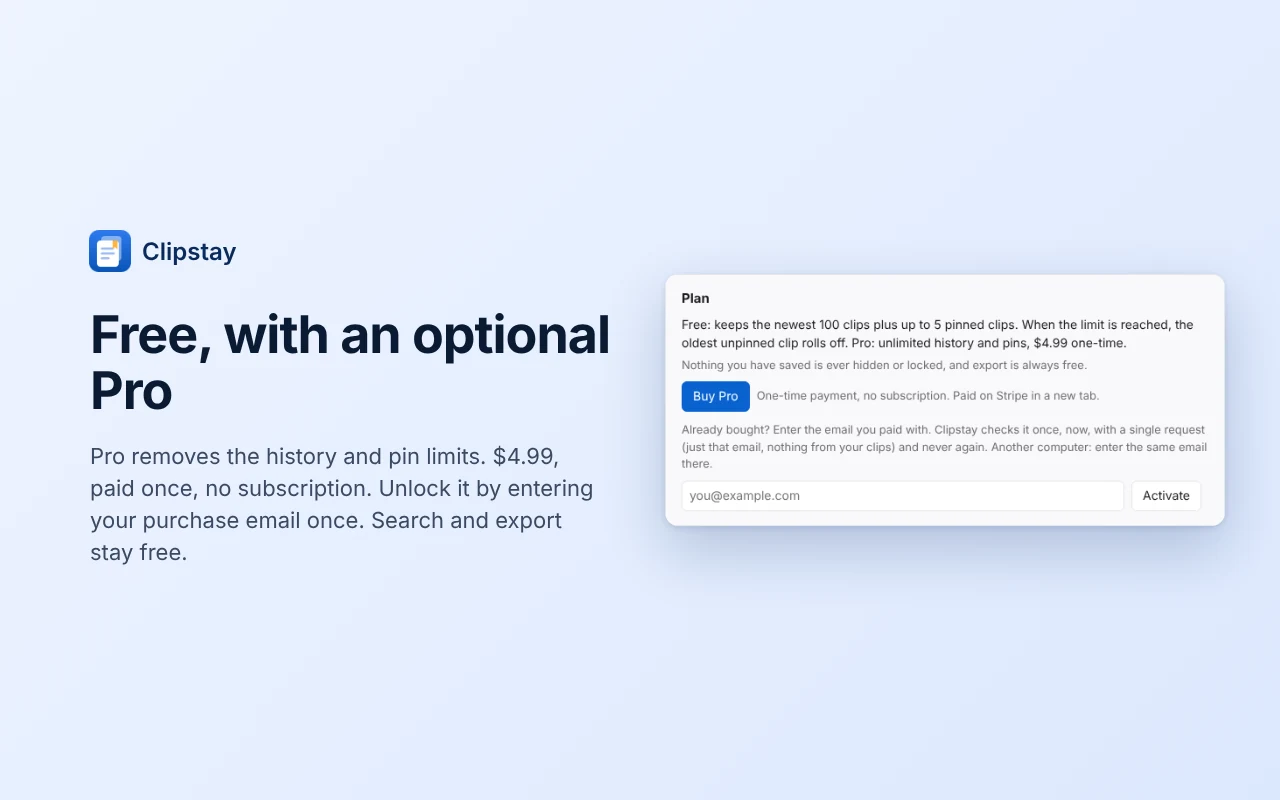
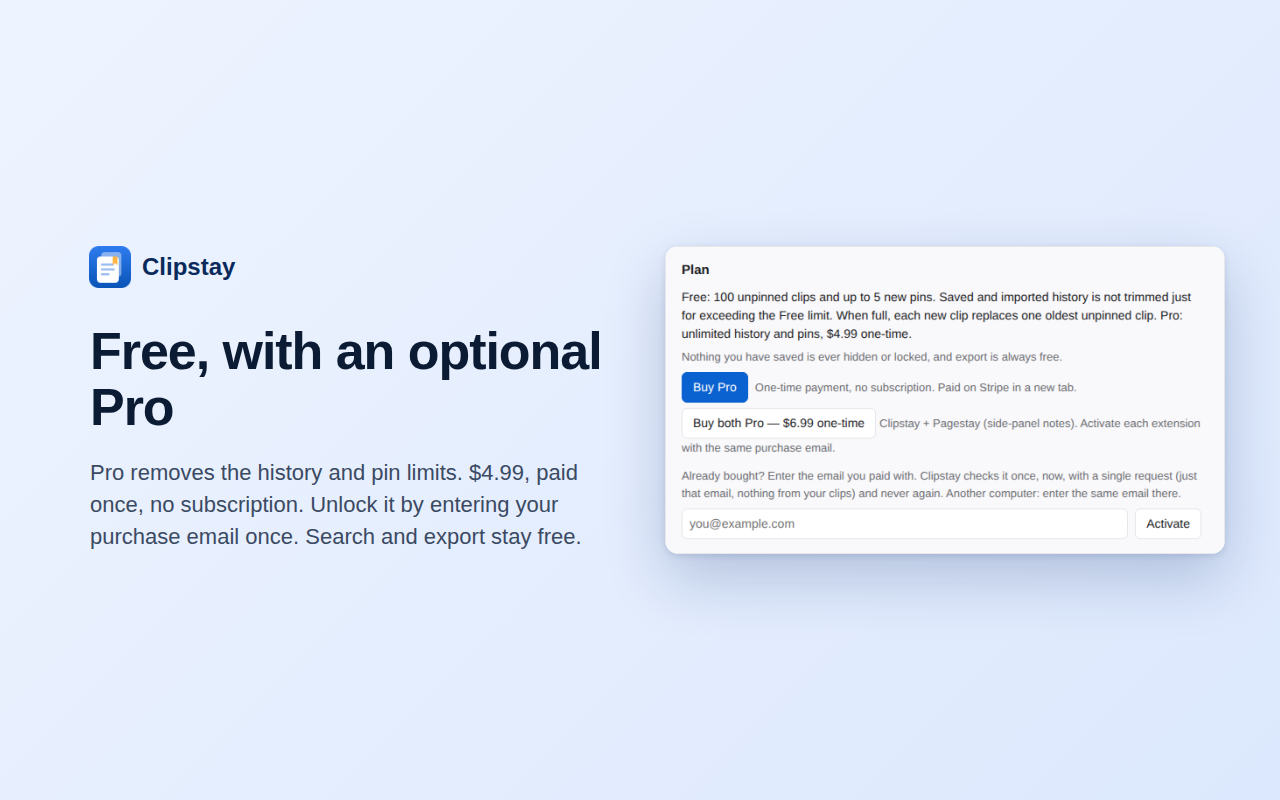
Replace stale Clipstay Plan image with verified native capture

Changed region(s): [[0.5, 0.3125, 0.9688, 0.7188], [0.0625, 0.5625, 0.4688, 0.7188], [0.0625, 0.2812, 0.5, 0.5312]]

diff --git a/docs/roadmaps/site-bugfix-preparation-2026-11.md b/docs/roadmaps/site-bugfix-preparation-2026-11.md
@@ -1,6 +1,6 @@
 # Site corrections for Clipstay 1.1.4 and Pagestay 1.0.2
 
-Prepared on 2026-11-04 UTC. This is preparation, not publication. Current site release baseline for the #73/#61 follow-up is `efdbdf76aa3d1aafa8ebdfb9248de3dac765cd31`; #55 images and #53/#54 copy/privacy are integrated. Current retention/origin/inventory work is tracked in [the agreed-behavior follow-up](clipstay-1.1.4-retention-and-privacy.md). Earlier integration snapshots below remain historical evidence.
+Prepared on 2026-11-04 UTC. This is preparation, not publication. Current site release baseline is `2a14e40816abcfa2f409e257b3f20fd00650b733`; #55 images, #53/#54 copy/privacy and #56/#46 agreed retention/inventory/origin changes are integrated after independent review and current checks. The separate current native Plan-image draft still needs its own site CI/review and integration. Current retention/origin/inventory work is tracked in [the agreed-behavior follow-up](clipstay-1.1.4-retention-and-privacy.md). Earlier integration snapshots below remain historical evidence.
 
 ## Baseline and delivery boundary
 
@@ -43,7 +43,7 @@ All listed Issues stay open until their delivery criteria have been verified on 
 - No existing failing test was weakened, skipped or replaced. No workflows changed. Local URL-resolution evidence is synthetic generated-HTML validation, not a fresh browser or live production retest.
 - Existing CI is used unchanged and economically; final feature heads and check links are recorded in the draft PRs.
[1 lines of base64/hex data omitted]
-- Initial legal corrections were prepared in [draft PR #46](https://github.com/viktorermolov/ermolov.dev/pull/46), head `be0726f129f95d0cada48f07ed32d3418c6f5bc5`; [Check site #170](https://github.com/viktorermolov/ermolov.dev/actions/runs/41747880990) passed. Both privacy edit dates are November 4. The approved network sentence appears exactly once per policy; background and 35-day checkout/URL text remain intact. Refund headings now agree. All prices, bundle/upgrade bullets and refund-request terms were checked against master; the entire Clipstay refund file was byte-identical at that initial checkpoint. The current #73 decision supersedes that unchanged-refund scope; PR46 is being refreshed against the integrated privacy copy and current inventory/origin facts.
+- Initial legal corrections were prepared in [draft PR #46](https://github.com/viktorermolov/ermolov.dev/pull/46), head `be0726f129f95d0cada48f07ed32d3418c6f5bc5`; [Check site #170](https://github.com/viktorermolov/ermolov.dev/actions/runs/41747880990) passed. Both privacy edit dates are November 4. The approved network sentence appears exactly once per policy; background and 35-day checkout/URL text remain intact. Refund headings now agree. All prices, bundle/upgrade bullets and refund-request terms were checked against master; the entire Clipstay refund file was byte-identical at that initial checkpoint. The current #73 decision supersedes that unchanged-refund scope; PR46 was subsequently refreshed against the integrated privacy copy and current inventory/origin facts, reviewed and integrated as recorded in the follow-up.
 - Mechanics and the initial roadmap were integrated through [PR #44](https://github.com/viktorermolov/ermolov.dev/pull/44). Its reviewed final head `7521140d55c2f9e41812799c0768ad46d4dd8914` passed [Check site #171](https://github.com/viktorermolov/ermolov.dev/actions/runs/41748007143). Its initial code head `1c074822668fa7cccf3d6c268a582963590b1fcc` had also passed [Check site #168](https://github.com/viktorermolov/ermolov.dev/actions/runs/41747460750).
 - The three proposed patches were applied to a detached temporary worktree for combined validation, without merging or committing them to any integration/release branch. Pinned Hugo production build, the complete site checker including the new 404 regression, JS syntax and whitespace checks all passed together. This does not replace CI on any future integrated PR or final master SHA.
 
@@ -54,22 +54,22 @@ All listed Issues stay open until their delivery criteria have been verified on 
 - #45 was then marked ready and merged normally as `2d83224b0a5413d1e44bbf7c76e7e8799582cbe4`. Its parents are the #44 merge and reviewed #45 head. Merge calls pinned each expected head SHA.
 - The actual release head `2d83224b0a5413d1e44bbf7c76e7e8799582cbe4` passed pinned Hugo 0.166.0 production build, full site checker (8 content pages, 2 products, including nested 404 checks), JS syntax and whitespace checks after fetching the resulting branch. This is local generated-artifact evidence, not production or fresh browser evidence.
 - Existing Actions trigger on PRs and master pushes, not release-branch pushes. The separate roadmap-status PR uses that existing pipeline to check the integrated tree plus this documentation update; it is not an exact-release-head push run and does not replace final canonical master CI. Green unchanged feature jobs were not rerun. No workflows or settings were changed.
-- #46 remains open **draft** and is being refreshed from initial head `be0726f129f95d0cada48f07ed32d3418c6f5bc5` against the current site release. Its old review covered the old scope only. Retention behavior is now decided by Clipstay #73; the updated legal/inventory/origin diff needs current CI and independent review. No legal delivery or publication is implied.
+- #46 was refreshed from initial head `be0726f129f95d0cada48f07ed32d3418c6f5bc5`, preserving unique earlier work. Fresh independent review accepted the combined #56/#46 tree; after #56 changed the base, a normal merge updated #46 and [CI 41897993429](https://github.com/viktorermolov/ermolov.dev/actions/runs/41897993429) passed on the current result. #46 merged as `2a14e40816abcfa2f409e257b3f20fd00650b733`, tree `0090ee6b8aae0cfdf6eb44cb3eac4642db5f0ff0`. Actual PR merge result and final release passed local full checks. This is release integration, not public delivery or publication.
 - Master remains `fba7e7b3b8f1468a52b972ce09211715ea6fd926`. No master merge, deployment, release/tag/store publication or issue closure took place. The public site still has none of these prepared corrections.
 
 ## Unresolved decisions and dependencies
 
-- **Clipstay #73 decision resolved:** prepared 1.1.4 retains existing/imported history and pins on passive transitions/import/Undo rather than bulk-trimming to 100. Each genuinely new Free capture at full history can replace one oldest unpinned clip; earlier capture-triggered work can finish later. No remote Pro revocation is added. Product and refund copy must say this, not promise absolute non-deletion. Local recopy timestamps, 24-hour-eligible deletion markers and retention/replacement metadata also need source-matched privacy inventory; no user-facing artificial clock example is added.
-- **Pagestay image handoff completed for preparation:** reviewed native outputs are integrated in site #55 with source-to-output provenance; no Store publication is claimed. New prepared 1.0.2 origin metadata from product #61 is being disclosed in PR46: protocol/port for note-link navigation, preserved in JSON, with unchanged hostname matching and no automatic legacy backfill.
+- **Clipstay #73 decision resolved:** prepared 1.1.4 retains existing/imported history and pins on passive transitions/import/Undo rather than bulk-trimming to 100. Each genuinely new Free capture at full history can replace one oldest unpinned clip; earlier capture-triggered work can finish later. No remote Pro revocation is added. Integrated product/refund copy now says this without promising absolute non-deletion. Local recopy timestamps, 24-hour-eligible deletion markers and retention/replacement metadata have source-matched privacy inventory through #46; no user-facing artificial clock example is added.
+- **Pagestay image handoff completed for preparation:** reviewed native outputs are integrated in site #55 with source-to-output provenance; no Store publication is claimed. New prepared 1.0.2 origin metadata from product #61 is disclosed through integrated PR46: protocol/port for note-link navigation, preserved in JSON, with unchanged hostname matching and no automatic legacy backfill.
 - A production Stripe Dashboard inspection is outside this task. Disclosure uses existing agreed Pagestay examples and source-verified Worker facts; it does not assert extra personal fields are stored in KV.
 
 ## Remaining release steps
 
-Follow-up after #51: the reviewed roadmap was merged into the release branch as `97d87eb807ae06aee4d01c2307572047d5864a74`; its tree matched the independently reviewed, green #51 head. The owner then approved a new Clipstay #55 direction (preserved external-app import, bounded Resume suppression and truthful Incognito shared-clipboard disclosure). That new preparation has its own [copy roadmap](clipstay-1.1.4-clipboard-copy.md), originally gated on verified implementation and actual publication; the latest coordinated review-submission/deployment timing above supersedes that original timing proposal. It is separate from legal/refund PR #46; its former retention-decision blocker is now resolved by #73, and the updated legal diff requires review under the latest coordinated submission/deployment timing.
+Follow-up after #51: the reviewed roadmap was merged into the release branch as `97d87eb807ae06aee4d01c2307572047d5864a74`; its tree matched the independently reviewed, green #51 head. The owner then approved a new Clipstay #55 direction (preserved external-app import, bounded Resume suppression and truthful Incognito shared-clipboard disclosure). That new preparation has its own [copy roadmap](clipstay-1.1.4-clipboard-copy.md), originally gated on verified implementation and actual publication; the latest coordinated review-submission/deployment timing above supersedes that original timing proposal. It is separate from legal/refund PR #46; its former retention-decision blocker is now resolved by #73, and the updated legal diff completed review and release integration under the latest coordinated submission/deployment timing.
 
-1. Earlier #44/#45/#51/#55/#53/#54 integration is complete; no formal PR approval was submitted. Review/check the new agreed-retention claims draft and refreshed legal PR46 before any further release integration.
-2. Keep #46 draft until independent review/current CI cover the refreshed legal scope, including #73 retention, #77 local metadata and Pagestay #61 origin. The accepted decision is not an unresolved policy fork; old review/CI cannot stand for the changed head.
-3. Resolve the stale Clipstay Pro-plan image noted in the follow-up; use a truthful native replacement or an explicitly agreed presentation fallback. Recheck issue acceptance and prepared dates. Preserve cloud/Linux evidence limits without claiming native Mac/OS coverage.
+1. Earlier #44/#45/#51/#55/#53/#54 integration is complete; no formal PR approval was submitted. Agreed-retention claims #56 and refreshed legal #46 also completed review/checks and release integration; exact evidence is in the follow-up.
+2. The refreshed legal scope, including #73 retention, #77 local metadata and Pagestay #61 origin, is integrated after fresh review/current-result CI. No retention policy fork remains. The separate native Plan-image draft still needs current CI and independent review.
+3. Finish review and release integration of the exact native Clipstay PR80 Plan image, converted losslessly without resizing; hashes and source attribution are recorded in the screenshot provenance follow-up. Recheck issue acceptance and prepared dates. Preserve cloud/Linux evidence limits without claiming native Mac/OS coverage.
 4. After review, integrate only through PRs; prepare a release-branch PR to master. Rebuild/check the combined site, preserving all existing checks and no unpublished-version claims.
 5. Coordinate the agreed future review-submission/deployment window, then obtain direct confirmation for the exact master merge/deployment before executing it. Extension publication separately requires exact-final-master CI and its own publication authorization.
 6. After authorized deployment, verify homepage, product/legal pages, nested 404 and images with fresh `?v=<final-sha>` URLs; confirm deployed SHA. Only then close delivered Issues. Record any partial or pending scope.

diff --git a/docs/roadmaps/clipstay-1.1.4-retention-and-privacy.md b/docs/roadmaps/clipstay-1.1.4-retention-and-privacy.md
@@ -2,6 +2,12 @@
 
 Prepared 2026-11-04 UTC against site release `efdbdf76aa3d1aafa8ebdfb9248de3dac765cd31`. This is release preparation, not deployment, Store submission or publication. Product claims and legal pages use separate PRs.
 
+## Current integration checkpoint
+
+Claims PR56 merged as `86bfe3b35a4e5d121b2313a60534ee60a9ad15c8`, followed by legal PR46 as `2a14e40816abcfa2f409e257b3f20fd00650b733`, the current site release baseline. Independent review covered combined tree `0090ee6b8aae0cfdf6eb44cb3eac4642db5f0ff0`. After the base changed, PR46 was updated by a normal merge with no new content beyond that reviewed tree; [current CI 41897993429](https://github.com/viktorermolov/ermolov.dev/actions/runs/41897993429) passed. The actual current PR merge result and final release commit passed Hugo/full checker/JS/whitespace. Earlier preparation instructions below describe the scope now integrated, not pending review. Master remains `fba7e7b3b8f1468a52b972ce09211715ea6fd926`; no publication or deployment occurred.
+
+The separate native Plan-image draft uses Clipstay PR80 asset head `b5a5713c7d9bcf027fd2d1ff967b98b998c13f0e`. Exact PNG and converted WebP were inspected; decoded RGB pixels and 1280 × 800 dimensions match. See [source/output hashes and reproduction](../screenshot-provenance-2026-11-04.md#current-plan-image-follow-up). Site CI and independent review of this image/provenance/roadmap PR remain required before release integration. No product-policy question is pending.
+
 ## Accepted decisions and source evidence
 
 - Clipstay [#73](https://github.com/viktorermolov/Clipstay/issues/73) is decided. [PR78](https://github.com/viktorermolov/Clipstay/pull/78), reviewed head `b72e7718985e90903a5ddfc47fc52ddf3354861a`, merged as `e9890cfcd2b6e7273c64d5a4e165838e8c04d942`. [Full CI 41885032369](https://github.com/viktorermolov/Clipstay/actions/runs/41885032369) passed 393 unit/233 browser checks with zero warnings/failures, package verification and privacy rendering. Current release source inspected: `14157bc719fb43658adc13381f97f701c357806a`; its `lib/store.js` blob matches reviewed PR78. README, Store draft, SPEC and Options copy confirm the same behavior.
@@ -13,14 +19,14 @@ Prepared 2026-11-04 UTC against site release `efdbdf76aa3d1aafa8ebdfb9248de3dac7
 ## Prepared scope and acceptance
 
 - Fresh claims branch `docs/clipstay-1.1.4-free-retention`: replace the old newest-100/import-trimming claims in the Free section and FAQ; state the prepared 1.1.4 rule explicitly and preserve optional Pro pricing/features. No absolute non-loss promise.
-- Existing draft [site PR46](https://github.com/viktorermolov/ermolov.dev/pull/46) is updated against the integrated site release, preserving #54 capture/Incognito/permission wording and all unique earlier legal work. Replace the absolute Clipstay refund paragraph with the accepted version-scoped retention/capture distinction and confirmed no-remote-revocation fact. Keep refund window, prices, whole-payment/bundle/upgrade rules and payment method unchanged.
+- Separately integrated [site PR46](https://github.com/viktorermolov/ermolov.dev/pull/46) is updated against the integrated site release, preserving #54 capture/Incognito/permission wording and all unique earlier legal work. Replace the absolute Clipstay refund paragraph with the accepted version-scoped retention/capture distinction and confirmed no-remote-revocation fact. Keep refund window, prices, whole-payment/bundle/upgrade rules and payment method unchanged.
 - Add Clipstay privacy inventory for recopy timestamp sidecars, clip-ID/deletion-time markers eligible for cleanup after 24 hours and removed on subsequent cleanup, plus retention/replacement IDs/counters/flags and lifecycle. These contain no clip text; normal exported clip timestamps can reflect recopy times, although the separate bookkeeping records are not exported. Distinguish deletion markers from the existing five-minute full-text Undo slot. Do not promise exact timed removal, absolute atomicity or non-loss. Per owner direction, no artificial clock/sleep edge case is added to user-facing text.
 - Add a version-scoped Pagestay 1.0.2 creation-origin disclosure (protocol/optional port, JSON preservation, legacy fallback, no automatic backfill). Do not change matching identity or claim Markdown preserves origin.
 - Existing shared payment disclosure remains source-verified: current Clipstay `worker/index.mjs` and `worker/upgrade.mjs` are blob-identical to the previously audited versions. No new payment collection or refund terms are invented. Keep the approved network sentence verbatim exactly once per privacy page, never-in-background restriction and checkout URL/35-day retention.
 
 ## Related asset discrepancy
 
-Visually inspected site `static/img/clipstay/pro.webp`: the embedded old Plan UI still says Free keeps the newest 100. Actual prepared 1.1.4 `options.js` now describes preserved imported history and one-oldest replacement. This is an asset dependency, not an unresolved retention decision. Do not repaint/fabricate UI or silently weaken the new text. Obtain a current native Plan screenshot through the product's allowed capture route, then inspect/record provenance and convert it; alternatively the owner may explicitly agree a presentation fallback. The accepted private/capture image and Pagestay images from site PR55 are not changed by this text preparation.
+At the prior text-preparation checkpoint, visually inspected site `static/img/clipstay/pro.webp` still said Free keeps the newest 100. This separate image draft now replaces those bytes using the verified native PR80 PNG; it is not yet integrated or deployed. Actual prepared 1.1.4 `options.js` now describes preserved imported history and one-oldest replacement. This is an asset dependency, not an unresolved retention decision. Do not repaint/fabricate UI or silently weaken the new text. The current native Plan screenshot has been obtained, inspected and converted without changing pixels; current site CI and independent review of this asset change remain pending. The accepted private/capture image and Pagestay images from site PR55 are not changed by this text preparation.
 
 ## Timing, checks and remaining steps
 
@@ -28,4 +34,4 @@ Visually inspected site `static/img/clipstay/pro.webp`: the embedded old Plan UI
 - Read current AGENTS, local technical instructions and canonical standards. Legal/product claims remain separate. Current PR CI and independent review are required before release integration; standing release-branch authority does not authorize master or production.
 - Baseline source/check evidence is cloud/Linux; do not claim native Mac/OS clipboard or live Store acceptance. Do not add a new user-facing artificial clock disclaimer. No tests/workflows are weakened or skipped.
 - Run pinned Hugo 0.166.0, the full existing checker, JS syntax and whitespace checks for each final draft and the combined patches; record exact heads/current Actions in PR bodies. Source-led text checks should confirm old newest-100 assertions are gone, no blanket saved-clips-never-deleted promise remains, and all unrelated network/payment/refund facts are preserved.
-- Obtain independent review of new claims and refreshed PR46, resolve the stale Plan image before deployment, and review the whole combined site against accepted product facts. Leave Issues open until actual delivery. No master merge, deployment, tags/releases, Store action, security or payment change is authorized by this preparation.
+- Claims and legal review/integration are complete. Finish current CI and independent review of the native Plan-image draft, integrate it through its PR, and review the whole combined site against accepted product facts before deployment. Leave Issues open until actual delivery. No master merge, deployment, tags/releases, Store action, security or payment change is authorized by this preparation.

diff --git a/docs/roadmaps/clipstay-1.1.4-clipboard-copy.md b/docs/roadmaps/clipstay-1.1.4-clipboard-copy.md
@@ -5,10 +5,10 @@ Prepared on 2026-11-04 UTC against initial site release head `97d87eb807ae06aee4
 ## Direction and delivery gates
 
 - Preserve automatic clipboard import from other applications and its existing disable setting. Direct Incognito page capture/import remains excluded, but its text on the shared clipboard can enter a normal popup. Do not promise provenance tracking or exclusion of every text ever copied while paused.
-- Source reconciliation now uses corrected [Clipstay PR #71](https://github.com/viktorermolov/Clipstay/pull/71) head `4b487b14bbc24c16632b275c84e838e28df93521`. Its [full Actions run 41761083124](https://github.com/viktorermolov/Clipstay/actions/runs/41761083124) is green (author reports 329 unit tests, 229 browser passes, one existing timing warning and zero functional failures). The earlier queued copy-back race at `f88366935a2753a420de1f2d3aa735afefa5670a` is corrected by carrying the gesture-observed baseline generation through the queue. The coordinator relayed clean final independent public-copy review for #53 head `13025bbc01dc817b294e685a92a676d4bb98d5c7` and #54 head `3e1abe5eb359b21bef790a020771fd4f8dfd0d3a` against the corrected source, including 43 targeted capture tests and combined Hugo/site/JS checks. No public lifecycle wording change was required. That public-copy review remains valid; native-image review/provenance is now complete for release preparation through #55 below. The consolidated #53 roadmap diff and unchanged #54 passed final review and were integrated; the later agreed-retention/legal update still requires its own review and checks. At that capture checkpoint the manifest still said 1.1.3; this was not evidence of published 1.1.4. The later #73/#77 release source and current prepared version are recorded in the follow-up.
+- Source reconciliation now uses corrected [Clipstay PR #71](https://github.com/viktorermolov/Clipstay/pull/71) head `4b487b14bbc24c16632b275c84e838e28df93521`. Its [full Actions run 41761083124](https://github.com/viktorermolov/Clipstay/actions/runs/41761083124) is green (author reports 329 unit tests, 229 browser passes, one existing timing warning and zero functional failures). The earlier queued copy-back race at `f88366935a2753a420de1f2d3aa735afefa5670a` is corrected by carrying the gesture-observed baseline generation through the queue. The coordinator relayed clean final independent public-copy review for #53 head `13025bbc01dc817b294e685a92a676d4bb98d5c7` and #54 head `3e1abe5eb359b21bef790a020771fd4f8dfd0d3a` against the corrected source, including 43 targeted capture tests and combined Hugo/site/JS checks. No public lifecycle wording change was required. That public-copy review remains valid; native-image review/provenance is now complete for release preparation through #55 below. The consolidated #53 roadmap diff and unchanged #54 passed final review and were integrated; the later agreed-retention/legal update completed review and current checks through #56/#46 at release `2a14e40816abcfa2f409e257b3f20fd00650b733`. At that capture checkpoint the manifest still said 1.1.3; this was not evidence of published 1.1.4. The later #73/#77 release source and current prepared version are recorded in the follow-up.
 - Clipstay PR #71 now has asset-only head `13b40a0d7ceddbe0032e4446ac5a0196e6ce46a9`, with [successful full CI 41767643455](https://github.com/viktorermolov/Clipstay/actions/runs/41767643455). Comparison with corrected runtime `4b487b14bbc24c16632b275c84e838e28df93521` changes only `store/screenshots/03-private.png` and `store/asset-provenance.md`; no runtime/lifecycle change. This is still prepared, not published 1.1.4.
 - Both site drafts require final matching implementation/checks, independently accepted exact copy, inspected native image/provenance and independent review before release integration. The latest owner-approved timing supersedes the earlier after-publication proposal: coordinate public website deployment with future extension submissions for Store review, while keeping prepared behavior version-scoped. Do not deploy now; the exact master merge/deployment still requires direct owner confirmation. Review submission is not Store publication. Extension publication requires canonical master CI at the exact final release SHA. No publication is authorized here.
-- Legal/refund PR #46 stays separate and draft while being refreshed against the integrated privacy copy. Clipstay #73 now resolves its earlier retention question; #73/#77 local bookkeeping and Pagestay #61 origin need inventory disclosure. Prices/refund terms/network/permissions are not broadened by that preparation.
+- Legal/refund PR #46 was kept separate, refreshed against the integrated privacy copy, independently reviewed and integrated after current-result CI; see the follow-up checkpoint. Clipstay #73 resolves its earlier retention question; #73/#77 local bookkeeping and Pagestay #61 origin have inventory disclosure through #46. Prices/refund terms/network/permissions are not broadened by that preparation.
 
 ## Source-verified lifecycle and metadata
 
@@ -56,7 +56,7 @@ Before this update, both drafts and a synthetic combination passed pinned Hugo 0
 
 ## Remaining steps
 
-1. #53/#54/#55 are integrated after exact-head checks and independent review. Further #73 retention-copy and legal PR46 inventory/origin changes require their own current CI/review; see the agreed-behavior follow-up.
+1. #53/#54/#55 are integrated after exact-head checks and independent review. Further #73 retention-copy and legal PR46 inventory/origin changes completed their own current CI/review and are integrated through #56/#46; see the agreed-behavior follow-up. The native Plan-image draft still needs its own CI/review and integration.
 2. Preserve the approved #55 capture/Incognito wording while updating other facts. Keep cloud/Linux validation limits explicit; do not claim native Mac/OS or live Store acceptance. The old unresolved-retention question is now decided by #73, not an outstanding owner-policy blocker.
 3. Review the whole combined release and the remaining stale Pro-plan image before coordinated deployment. All relevant Issues stay open until their actual delivery criteria are met.
 4. Latest owner-approved timing is a coordinated website deployment with future extension Store-review submissions, with prepared behavior version-scoped. No deployment now; direct owner confirmation of the exact master merge/deployment is still required. Review submission, moderation and actual publication are distinct. Extension publication still requires successful canonical master CI at the exact final SHA.

diff --git a/docs/screenshot-provenance-2026-11-04.md b/docs/screenshot-provenance-2026-11-04.md
@@ -40,3 +40,31 @@ Pillow 13.0.0 / libwebp 1.6.0. Open the PNG, convert to RGB, then save WebP with
 The Clipstay image retains the complete Capture section, including the shared-clipboard limitation. Its new alt text no longer claims an excluded-sites list that is absent from this composition. Pagestay notes, rule-editing and search images retain their Free/Pro captions and visible controls. The notes image also feeds the homepage card through the existing content configuration.
 
 Independent review and current site CI on this exact change are required before integration into the preparation release branch. The source images include unreleased bug-fix preparation; they are not proof of live-store compatibility. Master merge and production deployment require the owner's separate explicit go-ahead and the corresponding version/publication decision. No deployment, store upload or publication is performed here.
+
+## Current Plan image follow-up
+
+The initial four-image batch above is unchanged. This separate follow-up replaces only `static/img/clipstay/pro.webp`, whose previous UI said Free keeps the newest 100 clips. The new complete Plan section shows the accepted 1.1.4 history-retention rule, existing prices and activation controls. Existing product-page placement and alt text remain accurate and unchanged.
+
+- Source: [Clipstay PR80](https://github.com/viktorermolov/Clipstay/pull/80), exact asset head `b5a5713c7d9bcf027fd2d1ff967b98b998c13f0e`, `store/screenshots/04-pro.png`, Git blob `c0b3e09cb1fecbf2ae9edd3f1523b1da4fac3bf0`. The coordinator reported independent content/provenance review; the website consumer also opened the actual input and output and checked their hashes and pixels.
+- Read source attribution in `store/asset-provenance.md` and `store/screenshots/04-pro.capture.json` at that head. Actual renderer checkout `04395f2e1364b02eade0e6c12460cfe769b98b7a`, tree `c2208736fc57ccdc1a72795e100400ae1419a4d9`, unpublished manifest 1.1.4; [Linux capture run 41899447917](https://github.com/viktorermolov/Clipstay/actions/runs/41899447917), attempt 1. The diagnostic source branch is not for merge. This records image provenance, not acceptance of that branch or a diagnosis of the earlier product test failure.
+- Existing real extension Plan section composed with the existing marketing frame, using synthetic fixture data. No native OS/browser-frame acceptance, purchase, activation or Store publication is represented. No regenerated UI, text replacement, crop, resize or overlay was added by the website consumer.
+- The connector blob reader could not decode the binary PNG as UTF-8. The exact committed bytes were obtained through a normal read-only git fetch of PR80, not by retrying an artifact download. Both the Git blob and SHA-256 matched before conversion.
+- Conversion matches the initial batch: Pillow 13.0.0 / libwebp 1.6.0; open PNG, convert to RGB, save WebP with `lossless=True, method=6, exact=True`. Both images are 1280 × 800. The decoded RGB bytes are identical, including the full card and Clipstay brand attribution; visual inspection found no clipping.
+
+| File | Bytes | SHA-256 |
+| --- | --- | --- |
[2 lines of base64/hex data omitted]
+
+Reproduce after obtaining and hash-checking the exact source PNG:
+
+```python
+from PIL import Image
+source = Image.open("04-pro.png").convert("RGB")
+source.save("pro.webp", format="WEBP", lossless=True, method=6, exact=True)
+decoded = Image.open("pro.webp").convert("RGB")
+assert source.size == decoded.size == (1280, 800)
+assert source.tobytes() == decoded.tobytes()
+```
+
+This asset PR still requires its own current site CI and independent review before release integration. The latest owner-agreed rollout is coordinated site deployment with future extension Store-review submissions; no deployment is performed now, and the exact master merge/deployment still requires direct owner confirmation. The source capture is not proof of Store publication.
